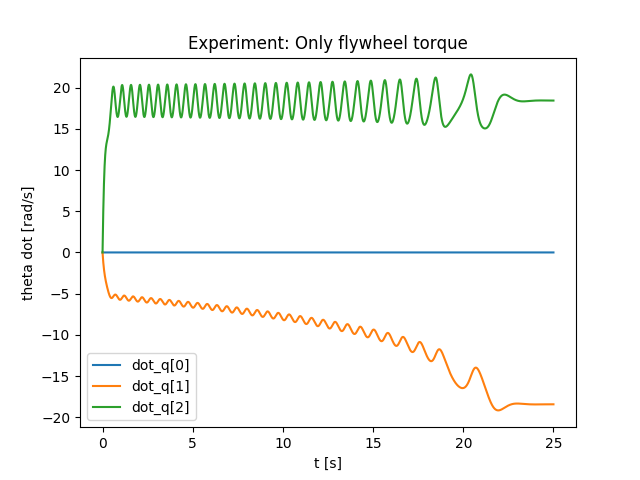
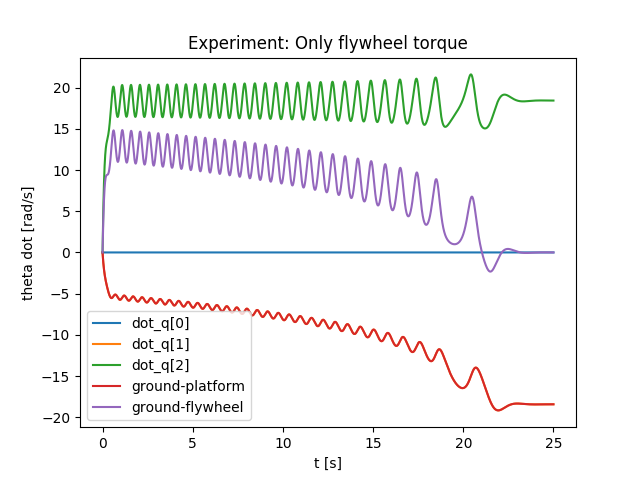
rewrite image

diff --git a/software/mechanical_computations/lagrange_1.py b/software/mechanical_computations/lagrange_1.py
@@ -91,7 +91,7 @@ my_robot.set_r_flywheel_r_wheel_w_N(.086, .10, .04, 2)
 initial_contition = [0,0,0,0,0,0]
 ode_int = scipy.integrate.solve_ivp(
     system_function(my_robot),
-    (0, 50),
+    (0, 25),
     initial_contition,
     max_step=0.001,
     method='RK45',
@@ -117,7 +117,9 @@ plt.ylabel('theta dot [rad/s]')
 plt.plot(ode_int.t, ode_int.y[3])
 plt.plot(ode_int.t, ode_int.y[4])
 plt.plot(ode_int.t, ode_int.y[5])
-plt.legend(['dot_q[0]', 'dot_q[1]', 'dot_q[2]'])
+plt.plot(ode_int.t, ode_int.y[3]+ode_int.y[4])
+plt.plot(ode_int.t, ode_int.y[3]+ode_int.y[4]+ode_int.y[5])
+plt.legend(['dot_q[0]', 'dot_q[1]', 'dot_q[2]','ground-platform' ,'ground-flywheel'])
 
 plt.show()
 
